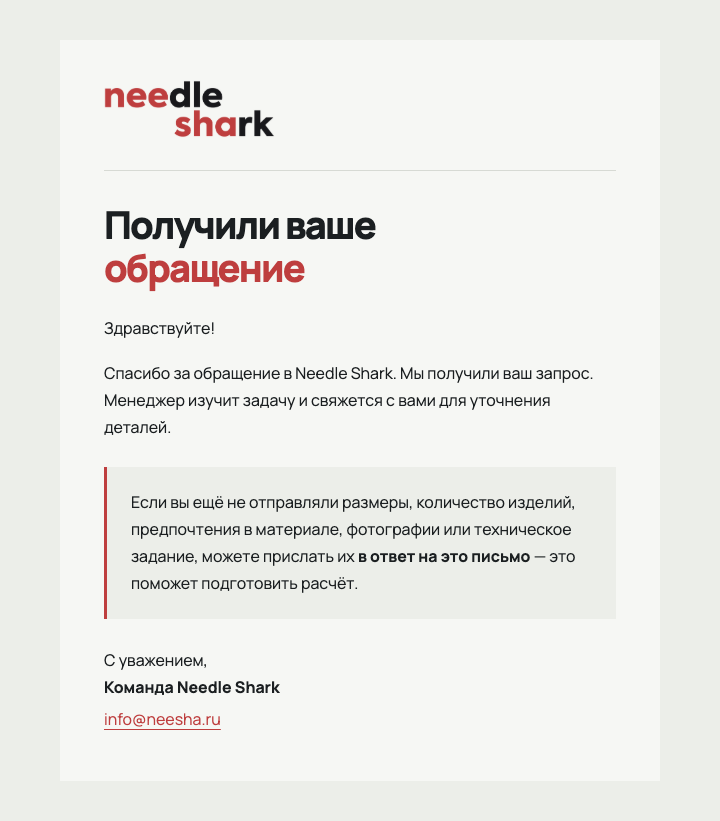
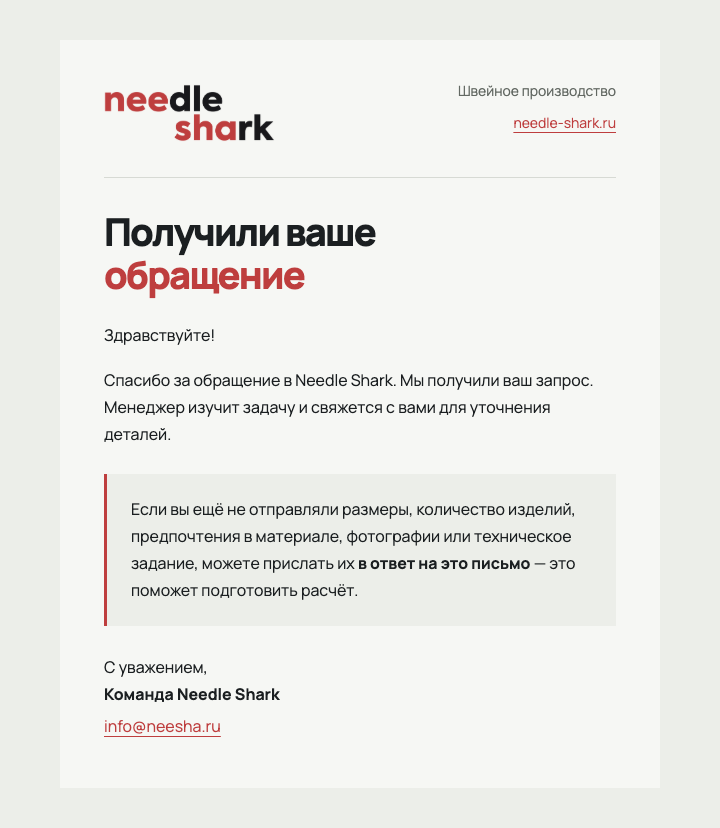
Add production descriptor and website link to email header

diff --git a/emails/received.html b/emails/received.html
@@ -17,8 +17,9 @@
     a:focus-visible{outline:3px solid #BE3E3E;outline-offset:5px}
     @media(max-width:620px){.outer{padding:16px 12px!important}.email-padding{padding:30px 24px 32px!important}.email-heading{font-size:30px!important;line-height:35px!important;letter-spacing:-1.2px!important}.email-header{padding-bottom:28px!important}.email-intro{padding-top:28px!important}.email-note{padding:20px!important}}
     @media(max-width:374px){.email-heading{font-size:28px!important;line-height:33px!important}.email-padding{padding-left:22px!important;padding-right:22px!important}}
+    @media(max-width:500px){.email-brand-cell,.email-brand-details{display:block!important;width:100%!important;text-align:left!important}.email-brand-details{padding:16px 0 0!important}}
   </style>
-  <!--[if mso]><style>body,table,td,p,h1,a,span,strong{font-family:Arial,sans-serif!important}</style><![endif]-->
+  <!--[if mso]><style>body,table,td,div,p,h1,a,span,strong{font-family:Arial,sans-serif!important}</style><![endif]-->
 </head>
 <body style="margin:0;padding:0;background-color:#eceee9;color:#1b1f21;">
   <table role="presentation" width="100%" cellpadding="0" cellspacing="0" border="0" bgcolor="#eceee9">
@@ -31,7 +32,17 @@
               <table role="presentation" width="100%" cellpadding="0" cellspacing="0" border="0" style="table-layout:fixed;">
                 <tr>
                   <td class="email-header" style="padding:0 0 32px;border-bottom:1px solid #d7dad4;">
-                    <img src="assets/needle-shark-logo.png" width="171" height="58" alt="Needle Shark" style="display:block;width:171px;height:58px;font-family:Arial,sans-serif;font-size:20px;font-weight:bold;color:#1b1f21;">
+                    <table role="presentation" width="100%" cellpadding="0" cellspacing="0" border="0" style="table-layout:fixed;">
+                      <tr>
+                        <td class="email-brand-cell" width="171" valign="middle" style="width:171px;">
+                          <img src="assets/needle-shark-logo.png" width="171" height="58" alt="Needle Shark" style="display:block;width:171px;height:58px;font-family:Arial,sans-serif;font-size:20px;font-weight:bold;color:#1b1f21;">
+                        </td>
+                        <td class="email-brand-details" align="right" valign="middle" style="padding:0 0 0 24px;text-align:right;font-family:Manrope,Arial,sans-serif;">
+                          <div class="email-brand-description" style="font-family:Manrope,Arial,sans-serif;font-size:14px;line-height:21px;color:#636963;">Швейное производство</div>
+                          <a href="https://needle-shark.ru/" target="_blank" rel="noopener noreferrer" style="display:inline-block;padding:10px 0;font-family:Manrope,Arial,sans-serif;font-size:14px;line-height:24px;color:#BE3E3E;text-decoration:underline;text-underline-offset:4px;">needle-shark.ru</a>
+                        </td>
+                      </tr>
+                    </table>
                   </td>
                 </tr>
                 <tr>

diff --git a/emails/preview.js b/emails/preview.js
@@ -18,7 +18,7 @@ function update() {
   if (doc?.body) {
     let override = doc.getElementById('preview-font-override');
     if (!override) { override = doc.createElement('style'); override.id = 'preview-font-override'; doc.head.append(override); }
-    override.textContent = font.value === 'Arial' ? 'body,td,p,h1,a,span,strong{font-family:Arial,sans-serif!important}' : '';
+    override.textContent = font.value === 'Arial' ? 'body,td,div,p,h1,a,span,strong{font-family:Arial,sans-serif!important}' : '';
   }
   caption.textContent = `${font.value} · макет для ${mobile ? 'телефона' : 'компьютера'}`;
   requestAnimationFrame(fit);

diff --git a/emails/README.md b/emails/README.md
@@ -6,9 +6,11 @@
 
 Основа дизайна — [руководство по бренду](../docs/BRAND_GUIDE.md) и действующие стили сайта. Текст содержит добавленное владельцем уточнение «предпочтения в материале»; не менять его автоматически при переносе.
 
+По уточнению владельца в шапку добавлены подпись «Швейное производство» и ссылка https://needle-shark.ru/. На широком экране они справа от логотипа, на узком — под ним. Основной текст письма прежний. [Проверка шапки](../docs/verification/20261016-email-header.json).
+
 ## Файлы
 
-- `received.html` — сам макет письма: табличная вёрстка, основные стили inline, текст и ссылка на email. Нет JavaScript, формы или аналитики.
+- `received.html` — сам макет письма: табличная вёрстка, основные стили inline, текст, ссылка на сайт и ссылка на email. Нет JavaScript, формы или аналитики.
 - `received.txt` — исходный текст с темой, для сверки и будущей текстовой части MIME-письма. При формировании MIME первую строку вынести в Subject.
 - `assets/needle-shark-logo.png` — точный растровый экспорт `dist/logo.svg`, 513 × 174 px, подложка `#F6F7F4`, показ в 171 × 58 px.
 - `preview.html`, `preview.css`, `preview.js` — локальная оболочка согласования: компьютер/телефон, Manrope/Arial. Она показывает тот же `received.html` в iframe, не дублирует содержание.
@@ -34,4 +36,4 @@ python3 -m http.server 4216 --bind 127.0.0.1
 
 После переноса нужны тестовые отправки в реальные почтовые клиенты, проверка светлой/тёмной темы, заблокированных изображений, ответа и фактической доставки. Автоматическую цепочку не включать в рамках подготовки макета.
 
-Проверки текущей версии: [обезличенный отчёт](../docs/verification/20261016-email-brand-preview.json).
+Первоначальная проверка макета: [обезличенный отчёт](../docs/verification/20261016-email-brand-preview.json).
